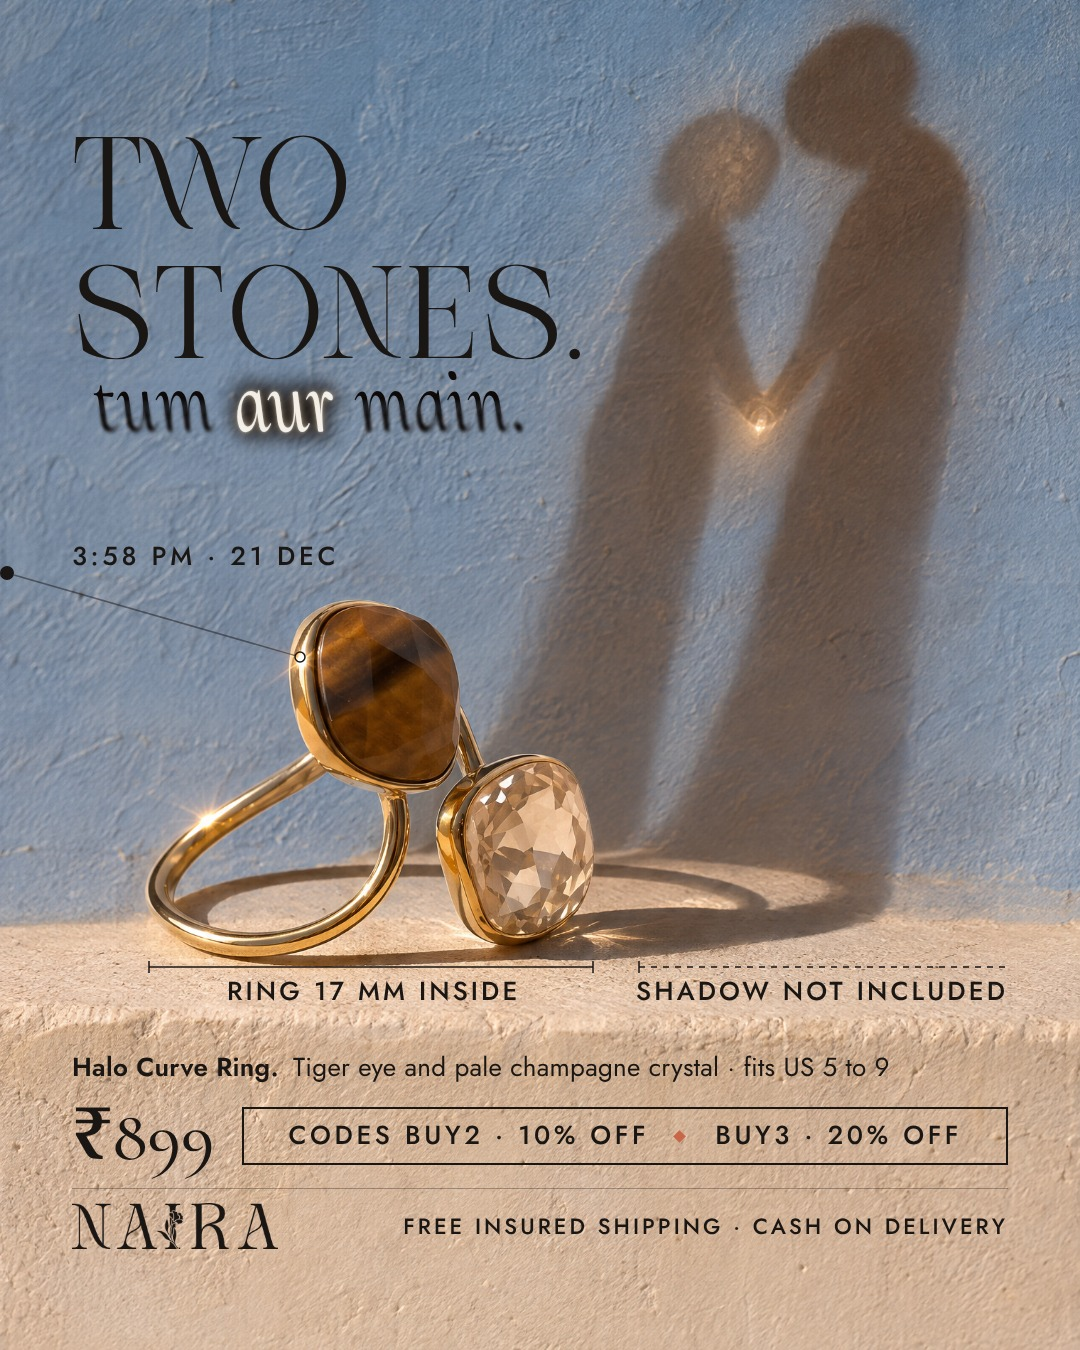
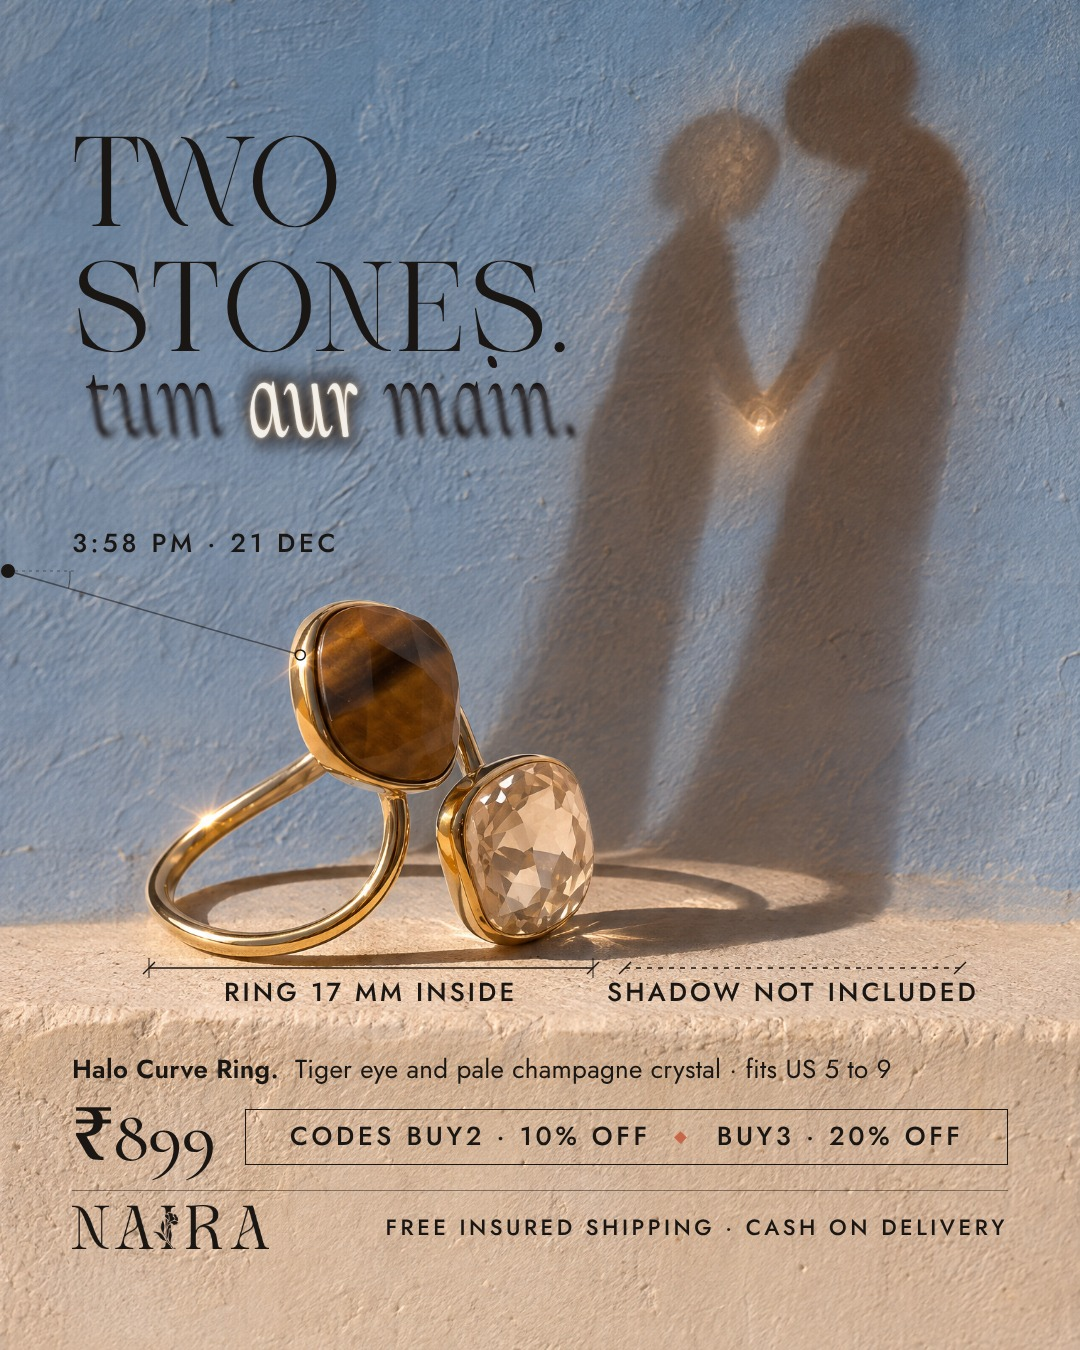
Crazy 100: batch progress
Claude-Session: https://claude.ai/code/session_015dHqE92KQXn2h19sPkpsQR

diff --git a/docs/creative/concept-50/batches/k01r/k01-1_V1_feed.html b/docs/creative/concept-50/batches/k01r/k01-1_V1_feed.html
@@ -1,0 +1,59 @@
+<!doctype html><html><head><meta charset="utf-8"><link rel="stylesheet" href="../../../ads-500/kit/kit.css">
+<!-- COMMENT -->
+<style>
+ body { background: #1E0F1A; }
+ .pic { object-position: 50% 28%; }
+ .lens, .ovl { position: absolute; left: 0; top: 0; pointer-events: none; overflow: visible; }
+ .foot { position: absolute; left: 0; right: 0; top: 0; bottom: 0; pointer-events: none;
+         background: linear-gradient(to bottom, rgba(30,15,26,0) 940px, rgba(30,15,26,.72) 985px, rgba(30,15,26,.93) 1030px, rgba(30,15,26,.96) 1350px); }
+ .rail { position: absolute; margin: 0; font-family: var(--sans); font-weight: 500; font-size: 26px; letter-spacing: .14em; text-transform: uppercase;
+         color: var(--gold-light); white-space: nowrap; line-height: 1; }
+ .chart { position: absolute; margin: 0; }
+ .chart .row { display: flex; align-items: baseline; white-space: nowrap; }
+ .chart .acu { flex: none; width: 64px; font-family: var(--sans); font-weight: 300; font-size: 26px; letter-spacing: 0; color: var(--gold-light); }
+ .chart .h1 { color: var(--bone); line-height: .98; }
+ .aside { position: absolute; margin: 0; font-size: 36px; line-height: 1.12; color: var(--gold-light); white-space: nowrap; }
+ .fig { position: absolute; margin: 0; color: var(--bone); text-shadow: 0 0 16px rgba(18,8,14,.55); }
+ .fig .n { display: block; font-family: var(--sans); font-weight: 300; font-size: 26px; letter-spacing: .24em; color: var(--gold-light); line-height: 34px; }
+ .fig .l { display: block; font-family: var(--sans); font-weight: 500; font-size: 26px; letter-spacing: .12em; text-transform: uppercase; line-height: 34px; white-space: nowrap; }
+ .fig .q { display: block; font-family: var(--serif); font-style: italic; font-weight: 500; font-size: 34px; color: var(--gold-light); line-height: 38px; margin-top: 4px; white-space: nowrap; }
+ .tag { position: absolute; margin: 0; font-family: var(--sans); font-weight: 500; font-size: 26px; letter-spacing: .12em; text-transform: uppercase;
+        color: var(--bone); line-height: 34px; border: 1.5px solid var(--gold-light); padding: 11px 16px 9px; white-space: nowrap; }
+ .f2 { position: absolute; left: 72px; right: 72px; color: var(--bone); }
+ .f2 .rule { height: 1px; background: rgba(228,200,137,.45); }
+ .f2 .top { display: flex; align-items: baseline; justify-content: space-between; }
+ .f2 .name { font-family: var(--sans); font-weight: 600; font-size: 26px; letter-spacing: .2em; text-transform: uppercase; line-height: 1; white-space: nowrap; }
+ .f2 .spec { font-family: var(--sans); font-weight: 400; font-size: 26px; letter-spacing: .02em; line-height: 1; white-space: nowrap; color: rgba(244,240,232,.92); }
+ .f2 .six { display: flex; align-items: center; font-family: var(--sans); font-weight: 500; font-size: 26px; letter-spacing: .12em;
+            text-transform: uppercase; line-height: 1; white-space: nowrap; color: rgba(244,240,232,.9); }
+ .f2 .six i { display: inline-block; width: 64px; height: 2px; background: var(--terracotta); margin-right: 16px; }
+ .f2 .six b { font-weight: 300; letter-spacing: 0; margin-right: 18px; color: var(--gold-light); }
+ .f2 .buy { display: flex; align-items: center; justify-content: space-between; }
+ .f2 .price { font-family: var(--serif); font-weight: 500; font-size: 72px; line-height: .9; white-space: nowrap; font-feature-settings: "lnum" 1; }
+ .f2 .offer { white-space: nowrap; padding: 13px 22px 12px; border-width: 1.5px; }
+ .f2 .base { display: flex; align-items: center; justify-content: space-between; }
+ .f2 .wm { height: 44px; width: auto; display: block; }
+ .f2 .trust { font-family: var(--sans); font-weight: 500; font-size: 22px; letter-spacing: .16em; text-transform: uppercase; white-space: nowrap; color: rgba(244,240,232,.86); }
+</style></head>
+<body class="dark">
+<img class="pic" src="pics/k01-1A.png">
+<div class="foot"></div>
+<svg class="lens" viewBox="0 0 1080 1350" width="1080" height="1350" aria-hidden="true"><defs><clipPath id="v1fc"><path d="M528.0 724.0 L792.0 724.0 L796.4 724.3 L800.7 725.4 L804.7 727.1 L808.5 729.3 L811.8 732.2 L814.7 735.5 L816.9 739.3 L818.6 743.3 L819.7 747.6 L820.0 752.0 L819.7 752.4 L819.3 762.7 L818.8 772.3 L818.1 781.2 L817.3 789.7 L816.3 797.8 L815.2 805.6 L813.9 813.1 L812.5 820.4 L811.0 827.4 L809.2 834.1 L807.4 840.7 L805.4 847.0 L803.2 853.1 L800.9 859.0 L798.5 864.7 L795.9 870.2 L793.2 875.5 L790.3 880.6 L787.3 885.5 L784.2 890.2 L780.9 894.8 L777.5 899.1 L773.9 903.2 L770.2 907.2 L766.3 910.9 L762.3 914.5 L758.2 917.8 L753.9 921.0 L749.4 923.9 L744.8 926.7 L740.1 929.2 L735.2 931.6 L730.1 933.7 L724.8 935.7 L719.4 937.4 L713.7 939.0 L707.8 940.3 L701.6 941.4 L695.1 942.4 L688.2 943.1 L680.6 943.6 L672.1 943.9 L660.0 944.0 L647.9 943.9 L639.4 943.6 L631.8 943.1 L624.9 942.4 L618.4 941.4 L612.2 940.3 L606.3 939.0 L600.6 937.4 L595.2 935.7 L589.9 933.7 L584.8 931.6 L579.9 929.2 L575.2 926.7 L570.6 923.9 L566.1 921.0 L561.8 917.8 L557.7 914.5 L553.7 910.9 L549.8 907.2 L546.1 903.2 L542.5 899.1 L539.1 894.8 L535.8 890.2 L532.7 885.5 L529.7 880.6 L526.8 875.5 L524.1 870.2 L521.5 864.7 L519.1 859.0 L516.8 853.1 L514.6 847.0 L512.6 840.7 L510.8 834.1 L509.0 827.4 L507.5 820.4 L506.1 813.1 L504.8 805.6 L503.7 797.8 L502.7 789.7 L501.9 781.2 L501.2 772.3 L500.7 762.7 L500.3 752.4 L500.0 752.0 L500.3 747.6 L501.4 743.3 L503.1 739.3 L505.3 735.5 L508.2 732.2 L511.5 729.3 L515.3 727.1 L519.3 725.4 L523.6 724.3 L528.0 724.0 Z"/></clipPath><filter id="v1fb" x="-20%" y="-20%" width="140%" height="140%"><feGaussianBlur stdDeviation="7"/></filter></defs><g clip-path="url(#v1fc)"><image href="pics/k01-1A.png" x="-660.00" y="-1136.31" width="2160.00" height="3819.79" preserveAspectRatio="none"/><path d="M528.0 724.0 L792.0 724.0 L796.4 724.3 L800.7 725.4 L804.7 727.1 L808.5 729.3 L811.8 732.2 L814.7 735.5 L816.9 739.3 L818.6 743.3 L819.7 747.6 L820.0 752.0 L819.7 752.4 L819.3 762.7 L818.8 772.3 L818.1 781.2 L817.3 789.7 L816.3 797.8 L815.2 805.6 L813.9 813.1 L812.5 820.4 L811.0 827.4 L809.2 834.1 L807.4 840.7 L805.4 847.0 L803.2 853.1 L800.9 859.0 L798.5 864.7 L795.9 870.2 L793.2 875.5 L790.3 880.6 L787.3 885.5 L784.2 890.2 L780.9 894.8 L777.5 899.1 L773.9 903.2 L770.2 907.2 L766.3 910.9 L762.3 914.5 L758.2 917.8 L753.9 921.0 L749.4 923.9 L744.8 926.7 L740.1 929.2 L735.2 931.6 L730.1 933.7 L724.8 935.7 L719.4 937.4 L713.7 939.0 L707.8 940.3 L701.6 941.4 L695.1 942.4 L688.2 943.1 L680.6 943.6 L672.1 943.9 L660.0 944.0 L647.9 943.9 L639.4 943.6 L631.8 943.1 L624.9 942.4 L618.4 941.4 L612.2 940.3 L606.3 939.0 L600.6 937.4 L595.2 935.7 L589.9 933.7 L584.8 931.6 L579.9 929.2 L575.2 926.7 L570.6 923.9 L566.1 921.0 L561.8 917.8 L557.7 914.5 L553.7 910.9 L549.8 907.2 L546.1 903.2 L542.5 899.1 L539.1 894.8 L535.8 890.2 L532.7 885.5 L529.7 880.6 L526.8 875.5 L524.1 870.2 L521.5 864.7 L519.1 859.0 L516.8 853.1 L514.6 847.0 L512.6 840.7 L510.8 834.1 L509.0 827.4 L507.5 820.4 L506.1 813.1 L504.8 805.6 L503.7 797.8 L502.7 789.7 L501.9 781.2 L501.2 772.3 L500.7 762.7 L500.3 752.4 L500.0 752.0 L500.3 747.6 L501.4 743.3 L503.1 739.3 L505.3 735.5 L508.2 732.2 L511.5 729.3 L515.3 727.1 L519.3 725.4 L523.6 724.3 L528.0 724.0 Z" fill="none" stroke="rgba(26,22,20,0.3)" stroke-width="22" filter="url(#v1fb)"/></g><path d="M528.0 724.0 L792.0 724.0 L796.4 724.3 L800.7 725.4 L804.7 727.1 L808.5 729.3 L811.8 732.2 L814.7 735.5 L816.9 739.3 L818.6 743.3 L819.7 747.6 L820.0 752.0 L819.7 752.4 L819.3 762.7 L818.8 772.3 L818.1 781.2 L817.3 789.7 L816.3 797.8 L815.2 805.6 L813.9 813.1 L812.5 820.4 L811.0 827.4 L809.2 834.1 L807.4 840.7 L805.4 847.0 L803.2 853.1 L800.9 859.0 L798.5 864.7 L795.9 870.2 L793.2 875.5 L790.3 880.6 L787.3 885.5 L784.2 890.2 L780.9 894.8 L777.5 899.1 L773.9 903.2 L770.2 907.2 L766.3 910.9 L762.3 914.5 L758.2 917.8 L753.9 921.0 L749.4 923.9 L744.8 926.7 L740.1 929.2 L735.2 931.6 L730.1 933.7 L724.8 935.7 L719.4 937.4 L713.7 939.0 L707.8 940.3 L701.6 941.4 L695.1 942.4 L688.2 943.1 L680.6 943.6 L672.1 943.9 L660.0 944.0 L647.9 943.9 L639.4 943.6 L631.8 943.1 L624.9 942.4 L618.4 941.4 L612.2 940.3 L606.3 939.0 L600.6 937.4 L595.2 935.7 L589.9 933.7 L584.8 931.6 L579.9 929.2 L575.2 926.7 L570.6 923.9 L566.1 921.0 L561.8 917.8 L557.7 914.5 L553.7 910.9 L549.8 907.2 L546.1 903.2 L542.5 899.1 L539.1 894.8 L535.8 890.2 L532.7 885.5 L529.7 880.6 L526.8 875.5 L524.1 870.2 L521.5 864.7 L519.1 859.0 L516.8 853.1 L514.6 847.0 L512.6 840.7 L510.8 834.1 L509.0 827.4 L507.5 820.4 L506.1 813.1 L504.8 805.6 L503.7 797.8 L502.7 789.7 L501.9 781.2 L501.2 772.3 L500.7 762.7 L500.3 752.4 L500.0 752.0 L500.3 747.6 L501.4 743.3 L503.1 739.3 L505.3 735.5 L508.2 732.2 L511.5 729.3 L515.3 727.1 L519.3 725.4 L523.6 724.3 L528.0 724.0 Z" fill="none" stroke="#2A1710" stroke-width="7" stroke-linejoin="round"/><path d="M528.0 724.0 L792.0 724.0 L796.4 724.3 L800.7 725.4 L804.7 727.1 L808.5 729.3 L811.8 732.2 L814.7 735.5 L816.9 739.3 L818.6 743.3 L819.7 747.6 L820.0 752.0 L819.7 752.4 L819.3 762.7 L818.8 772.3 L818.1 781.2 L817.3 789.7 L816.3 797.8 L815.2 805.6 L813.9 813.1 L812.5 820.4 L811.0 827.4 L809.2 834.1 L807.4 840.7 L805.4 847.0 L803.2 853.1 L800.9 859.0 L798.5 864.7 L795.9 870.2 L793.2 875.5 L790.3 880.6 L787.3 885.5 L784.2 890.2 L780.9 894.8 L777.5 899.1 L773.9 903.2 L770.2 907.2 L766.3 910.9 L762.3 914.5 L758.2 917.8 L753.9 921.0 L749.4 923.9 L744.8 926.7 L740.1 929.2 L735.2 931.6 L730.1 933.7 L724.8 935.7 L719.4 937.4 L713.7 939.0 L707.8 940.3 L701.6 941.4 L695.1 942.4 L688.2 943.1 L680.6 943.6 L672.1 943.9 L660.0 944.0 L647.9 943.9 L639.4 943.6 L631.8 943.1 L624.9 942.4 L618.4 941.4 L612.2 940.3 L606.3 939.0 L600.6 937.4 L595.2 935.7 L589.9 933.7 L584.8 931.6 L579.9 929.2 L575.2 926.7 L570.6 923.9 L566.1 921.0 L561.8 917.8 L557.7 914.5 L553.7 910.9 L549.8 907.2 L546.1 903.2 L542.5 899.1 L539.1 894.8 L535.8 890.2 L532.7 885.5 L529.7 880.6 L526.8 875.5 L524.1 870.2 L521.5 864.7 L519.1 859.0 L516.8 853.1 L514.6 847.0 L512.6 840.7 L510.8 834.1 L509.0 827.4 L507.5 820.4 L506.1 813.1 L504.8 805.6 L503.7 797.8 L502.7 789.7 L501.9 781.2 L501.2 772.3 L500.7 762.7 L500.3 752.4 L500.0 752.0 L500.3 747.6 L501.4 743.3 L503.1 739.3 L505.3 735.5 L508.2 732.2 L511.5 729.3 L515.3 727.1 L519.3 725.4 L523.6 724.3 L528.0 724.0 Z" fill="none" stroke="#7A4A2A" stroke-opacity=".55" stroke-width="2" stroke-linejoin="round"/><path d="M559.5 895.5 L556.1 891.8 L552.8 887.9 L549.7 883.9 L546.7 879.7 L543.8 875.2 L541.1 870.6 L538.4 865.8 L536.0 860.9 L533.6 855.7 L531.4 850.4 L529.3 844.9 L527.3 839.1 L525.5 833.2 L523.8 827.1 L522.2 820.8 L520.8 814.2 L519.5 807.5 L518.4 800.4 L517.3 793.1 L516.5 785.5 L515.7 777.6 L515.1 769.2 L514.6 760.3" fill="none" stroke="#F4F0E8" stroke-opacity=".38" stroke-width="3" stroke-linecap="round"/></svg>
+<p class="rail" id="rail" style="left:72px;top:84px">Sangeet · 10:40 PM · Inspection 1 of 10</p>
+<div class="chart" id="chart" data-t style="left:72px;top:122px">
+ <div class="row"><span class="acu" id="m1">6/60</span><span class="h1" id="r1" style="font-size:116px">Aunty ne</span></div>
+ <div class="row"><span class="acu" id="m2">6/36</span><span class="h1" id="r2" style="font-size:86px">chashma</span></div>
+ <div class="row"><span class="acu" id="m3">6/24</span><span class="h1" id="r3" style="font-size:64px">lagaya.</span></div>
+</div>
+<p class="beat aside" id="beat" style="left:136px;top:402px">From 20 cm she checked<br>every wire. Then she<br>asked for the link.</p>
+<div class="fig" id="fig1" data-t style="right:72px;top:300px;text-align:right"><span class="n">FIG. 1</span><span class="l">Open plait,</span><span class="l">see-through core</span><span class="q">‘itna barik kaam?’</span></div>
+<div class="fig" id="fig2" data-t style="right:72px;top:500px;text-align:right"><span class="n">FIG. 2</span><span class="l">Mirror polish</span><span class="l">on every wire</span><span class="q">‘har taar chamak</span><span class="q">raha hai’</span></div>
+<div class="tag" id="tag" data-t style="left:260px;top:890px">In her lens about 2×<br>actual 25 mm across</div>
+<div class="f2" id="f2" data-t style="top:1010px">
+ <div class="rule"></div>
+ <div class="top" style="margin-top:20px"><span class="name" id="name">Woven Gold Hoops</span><span class="spec" id="spec">Braided, 25 mm, 18k gold tone</span></div>
+ <div class="six" id="six" style="margin-top:16px"><i></i><b>6/6</b>Waterproof · tarnish free · hypoallergenic</div>
+ <div class="buy" style="margin-top:20px"><div class="price" id="price">₹1,049</div><div class="offer" id="offer">Codes BUY2 · 10% off <span class="sep"></span> BUY3 · 20% off</div></div>
+ <div class="base" style="margin-top:18px"><img class="wm" src="../../../ads-500/kit/logo_white.png"><div class="trust" id="trust">Free insured shipping · Cash on delivery</div></div>
+</div>
+</body></html>

diff --git a/docs/creative/concept-50/batches/k05a/k05-1_V1_feed.html b/docs/creative/concept-50/batches/k05a/k05-1_V1_feed.html
@@ -1,59 +1,81 @@
 <!doctype html><html><head><meta charset="utf-8"><link rel="stylesheet" href="../../../ads-500/kit/kit.css">
-<!-- k05-1 V1 · Halo Curve Ring · PARCHHAI. card 1 "Tum aur main" · OUTCOME / EDUCATION · the camp bible's planned line · Feed 1080x1350.
-     (top comment is filled in after the render; see below) -->
+<!-- k05-1 V1 · draft -->
 <style>
- body { background: #D0B397; }
+ body { background: #CDB197; }
  .pic { object-position: 50% 18%; }
- /* THE DOUBLE LINE: object line in the light, type-shadow under it in the same sun */
- .obj { position: absolute; left: 72px; top: 128px; font-size: 132px; white-space: nowrap; }
- .kT { letter-spacing: -.035em; }
- .ts { position: absolute; left: 76px; margin: 0; white-space: nowrap; font-family: var(--serif); font-style: italic; font-weight: 500;
-       font-size: 82px; line-height: 82px; letter-spacing: .005em; transform-origin: 0 0; transform: skewX(16deg) scaleY(1.22); }
- .ts-a { color: #1C110D; mix-blend-mode: multiply;
-         -webkit-mask-image: linear-gradient(to bottom, #000 0, #000 50%, transparent 72%); mask-image: linear-gradient(to bottom, #000 0, #000 50%, transparent 72%); }
- .ts-b { color: #1C110D; mix-blend-mode: multiply; filter: blur(1.5px);
-         -webkit-mask-image: linear-gradient(to bottom, transparent 0, transparent 46%, #000 66%); mask-image: linear-gradient(to bottom, transparent 0, transparent 46%, #000 66%); }
- .ts-a .w, .ts-b .w { color: transparent; }
- .ts-u { color: transparent; mix-blend-mode: multiply; filter: blur(8px); }
- .ts-u .w { color: #2A1A15; -webkit-text-stroke: 11px #2A1A15; }
- .ts-l { color: transparent; mix-blend-mode: screen; }
- .ts-l .w { color: rgba(244,240,232,.95); text-shadow: 0 0 8px rgba(240,214,170,.75), 0 0 2px rgba(244,240,232,.6); }
- .lab { position: absolute; font-family: var(--sans); font-weight: 500; font-size: 26px; line-height: 38px; letter-spacing: .14em;
+
+ /* 1 · OBJECT LINE, in the light: Velista caps, ink, x 72 */
+ .obj { position: absolute; left: 72px; top: 128px; font-size: 128px; line-height: .98; letter-spacing: .02em; white-space: nowrap; }
+ .obj .kTW { letter-spacing: -.045em; }
+
+ /* 2 · TYPE-SHADOW, hung from the object line's baseline, leaning with the plate (16 deg), stretched like a low-sun shadow */
+ .ts { position: absolute; left: 72px; top: 356px; width: 600px; height: 120px; transform-origin: 0 0; transform: skewX(16deg) scaleY(1.45); }
+ .ts.sh { mix-blend-mode: multiply; }
+ .ts.lt { mix-blend-mode: screen; }
+ .ts p { position: absolute; left: 0; top: -19.7px; margin: 0; white-space: nowrap; font-family: var(--serif); font-style: italic;
+         font-weight: 500; font-size: 92px; line-height: 92px; letter-spacing: .01em; color: #3B2620; }
+ .ts p .w { color: transparent; }
+ .ts .a { -webkit-mask-image: linear-gradient(to bottom, #000 0, #000 40px, transparent 52px); mask-image: linear-gradient(to bottom, #000 0, #000 40px, transparent 52px); }
+ .ts .b { filter: blur(2.4px); -webkit-mask-image: linear-gradient(to bottom, transparent 0, transparent 36px, #000 50px); mask-image: linear-gradient(to bottom, transparent 0, transparent 36px, #000 50px); }
+ /* the pool: the shadow that the lit word sits inside (the crystal's caustic glows inside the joined hands' shadow) */
+ .ts .pool { color: transparent; }
+ .ts .pool .w { color: #3B2620; -webkit-text-stroke: 9px #3B2620; filter: blur(7px); }
+ /* 3 · THE LIGHT IN THE TYPE: 'aur' alone is lit */
+ .ts .lit { color: transparent; }
+ .ts .lit .w { color: rgba(244,240,232,.92); text-shadow: 0 0 8px rgba(242,214,168,.85), 0 0 2px rgba(244,240,232,.7); }
+
+ /* 4 · THE SUN label, 5 · SIZE LINE labels */
+ .lab { position: absolute; font-family: var(--sans); font-weight: 500; font-size: 26px; line-height: 32px; letter-spacing: .14em;
         text-transform: uppercase; white-space: nowrap; color: var(--ink); }
- .sz { letter-spacing: .12em; }
+ .lab.sz { letter-spacing: .12em; }
+
+ /* F2 footer on the ledge face, one grid at x 72 to 1008 */
  .ftr { position: absolute; left: 72px; right: 72px; color: var(--ink); }
  .ftr .r1 { font-family: var(--sans); font-weight: 400; font-size: 26px; line-height: 34px; white-space: nowrap; letter-spacing: .01em; }
- .ftr .r1 b { font-weight: 600; margin-right: 6px; }
- .ftr .r2 { display: flex; align-items: center; gap: 28px; margin-top: 16px; }
- .ftr .price { font-family: var(--serif); font-weight: 500; font-size: 72px; line-height: 1; flex: none; }
- .ftr .offer { flex: 1; text-align: center; white-space: nowrap; padding: 12px 20px; }
+ .ftr .r1 b { font-weight: 600; margin-right: 8px; }
+ .ftr .r2 { display: flex; align-items: center; gap: 30px; margin-top: 14px; }
+ .ftr .price { font-family: var(--serif); font-weight: 500; font-size: 74px; line-height: 1; flex: none; letter-spacing: -.01em; }
+ .ftr .offer { flex: 1; text-align: center; white-space: nowrap; padding: 12px 18px; border-width: 1.5px; }
  .ftr .r3 { display: flex; justify-content: space-between; align-items: center; margin-top: 16px; padding-top: 14px;
-            border-top: 1.5px solid rgba(26,22,20,.32); }
- .ftr .r3 img { height: 46px; display: block; }
- .ftr .trust { font-family: var(--sans); font-weight: 500; font-size: 22px; letter-spacing: .14em; text-transform: uppercase; white-space: nowrap; }
+            border-top: 1px solid rgba(26,22,20,.45); }
+ .ftr .r3 img { height: 44px; display: block; }
+ .ftr .trust { font-family: var(--sans); font-weight: 500; font-size: 22px; letter-spacing: .16em; text-transform: uppercase; white-space: nowrap; }
 </style></head>
 <body>
  <img class="pic" src="pics/k05-1A.png" alt="">
- <p class="h1 obj"><span class="kT">T</span>wo<br>Stones.</p>
- <p class="ts ts-a" style="top:349px">tum <span class="w">aur</span> main.</p>
- <p class="ts ts-b" style="top:349px">tum <span class="w">aur</span> main.</p>
- <p class="ts ts-u" style="top:349px">tum <span class="w">aur</span> main.</p>
- <p class="ts ts-l" style="top:349px">tum <span class="w">aur</span> main.</p>
+
+ <p class="h1 obj"><span class="kTW">T</span>wo<br>Stones.</p>
+
+ <div class="ts sh">
+  <p class="pool">tum <span class="w">aur</span> main.</p>
+  <p class="a">tum <span class="w">aur</span> main.</p>
+  <p class="b">tum <span class="w">aur</span> main.</p>
+ </div>
+ <div class="ts lt"><p class="lit">tum <span class="w">aur</span> main.</p></div>
+
  <svg class="overlay" viewBox="0 0 1080 1350">
-  <!-- the sun: on the frame edge where a 16 degree line from the tiger eye bezel's specular leaves the frame -->
-  <circle cx="7" cy="573" r="7" fill="#1A1614"/>
-  <line x1="14" y1="575" x2="295.2" y2="655.6" stroke="#1A1614" stroke-opacity=".5" stroke-width="1.5"/>
-  <circle cx="300" cy="657" r="5" fill="none" stroke="#1A1614" stroke-width="1.5"/>
-  <!-- dimension bracket under the ring's true outline, and a dashed one for the shadow -->
-  <g stroke="#1A1614" stroke-width="1.5" fill="none">
-   <line x1="149" y1="967" x2="593" y2="967"/><line x1="149" y1="961" x2="149" y2="973"/><line x1="593" y1="961" x2="593" y2="973"/>
-   <line x1="639" y1="967" x2="1008" y2="967" stroke-dasharray="6 6"/><line x1="639" y1="961" x2="639" y2="973"/>
+  <g fill="none" stroke="#1A1614">
+   <!-- the sun on the frame edge, its 16 degree ray to the tiger eye bezel's specular -->
+   <line x1="15" y1="573" x2="295.5" y2="653.5" stroke-width="1.5" stroke-opacity=".55"/>
+   <circle cx="300.3" cy="654.9" r="5" stroke-width="1.5"/>
+   <line x1="15" y1="571" x2="78" y2="571" stroke-width="1" stroke-opacity=".5" stroke-dasharray="3 4"/>
+   <path d="M 70 571 A 62 62 0 0 1 68.6 588.1" stroke-width="1" stroke-opacity=".6"/>
+   <!-- dimension lines, architect's oblique ticks: the ring (solid), the shadow (dashed) -->
+   <g stroke-width="1.5">
+    <line x1="149" y1="968" x2="593" y2="968"/>
+    <line x1="143" y1="974" x2="155" y2="962"/><line x1="587" y1="974" x2="599" y2="962"/>
+    <line x1="149" y1="958" x2="149" y2="978" stroke-width="1"/><line x1="593" y1="958" x2="593" y2="978" stroke-width="1"/>
+    <line x1="625" y1="968" x2="960" y2="968" stroke-dasharray="5 6"/>
+    <line x1="619" y1="974" x2="631" y2="962"/><line x1="954" y1="974" x2="966" y2="962"/>
+   </g>
   </g>
+  <circle cx="8" cy="571" r="7" fill="#1A1614"/>
  </svg>
- <div class="lab" style="left:72px;top:537px">3:58 PM · 21 Dec</div>
- <div class="lab sz" style="left:227px;top:972px">Ring 17 mm inside</div>
- <div class="lab sz" style="right:72px;top:972px">Shadow not included</div>
- <div class="ftr" style="top:1050px">
+ <div class="lab" style="left:72px;top:527px">3:58 PM · 21 Dec</div>
+ <div class="lab sz" style="left:224px;top:976px">Ring 17 mm inside</div>
+ <div class="lab sz" style="left:607px;top:976px">Shadow not included</div>
+
+ <div class="ftr" style="top:1052px">
   <div class="r1"><b>Halo Curve Ring.</b> Tiger eye and pale champagne crystal · fits US 5 to 9</div>
   <div class="r2"><span class="price">₹899</span><span class="offer">Codes BUY2 · 10% off <span class="sep"></span> BUY3 · 20% off</span></div>
   <div class="r3"><img src="../../../ads-500/kit/logo_ink.png" alt="Naira"><span class="trust">Free insured shipping · Cash on delivery</span></div>

diff --git a/docs/creative/concept-50/batches/k02r/k02-4_V3_feed.html b/docs/creative/concept-50/batches/k02r/k02-4_V3_feed.html
@@ -64,8 +64,8 @@
  <div class="osd" data-m="osd"><svg width="40" height="26" viewBox="0 0 40 26"><path d="M20 0 L0 13 L20 26 Z M40 0 L20 13 L40 26 Z" fill="#F4F0E8"/></svg>REW</div>
  <img class="bug" src="../../../ads-500/kit/logo_white.png">
  <p class="giant" data-m="soft" style="top:151px;font-size:270px">Soft</p>
- <p class="print" data-m="focus" style="top:712px;font-size:90px">Focus.</p>
- <div class="hand contents" data-m="contents" style="top:796px">The tape kept the shine.<br>The bangles didn’t.</div>
+ <p class="print" data-m="focus" style="top:716px;font-size:90px">Focus.</p>
+ <div class="hand contents" data-m="contents" style="top:808px">The tape kept the shine.<br>The bangles didn’t.</div>
  <div class="stamp" data-m="stamp" style="top:962px">12 · 12 · 1996</div>
  <div class="lower"></div>
  <div class="lt name" data-m="name">Brushed Satin Hoops</div>

diff --git a/docs/creative/concept-50/batches/k02r/k02-4_V3_story.html b/docs/creative/concept-50/batches/k02r/k02-4_V3_story.html
@@ -69,7 +69,7 @@
  <div class="lt price" data-m="price"><span class="r">₹</span>699</div>
  <div class="lt offerw"><div class="offer" data-m="offer">Codes BUY2 · 10% off <span class="sep"></span> BUY3 · 20% off</div></div>
  <div class="lt trust" data-m="trust">Free insured shipping · Cash on delivery</div>
- <p class="print" data-m="focus" style="top:878px;font-size:90px">Focus.</p>
- <div class="hand contents" data-m="contents" style="top:962px">The tape kept the shine.<br>The bangles didn’t.</div>
+ <p class="print" data-m="focus" style="top:880px;font-size:90px">Focus.</p>
+ <div class="hand contents" data-m="contents" style="top:972px">The tape kept the shine.<br>The bangles didn’t.</div>
  <div class="stamp" data-m="stamp" style="top:1188px">12 · 12 · 1996</div>
 </body></html>
